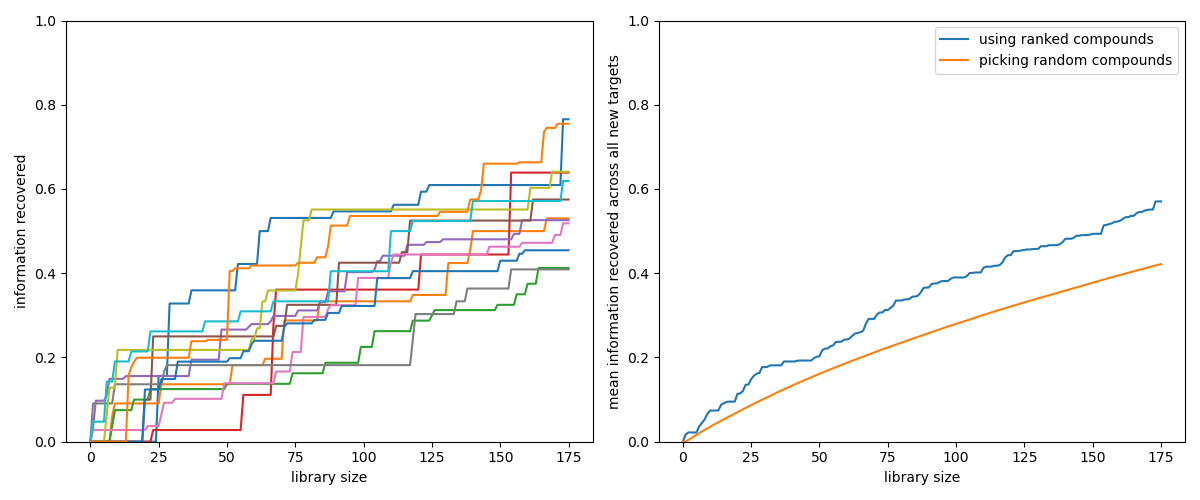
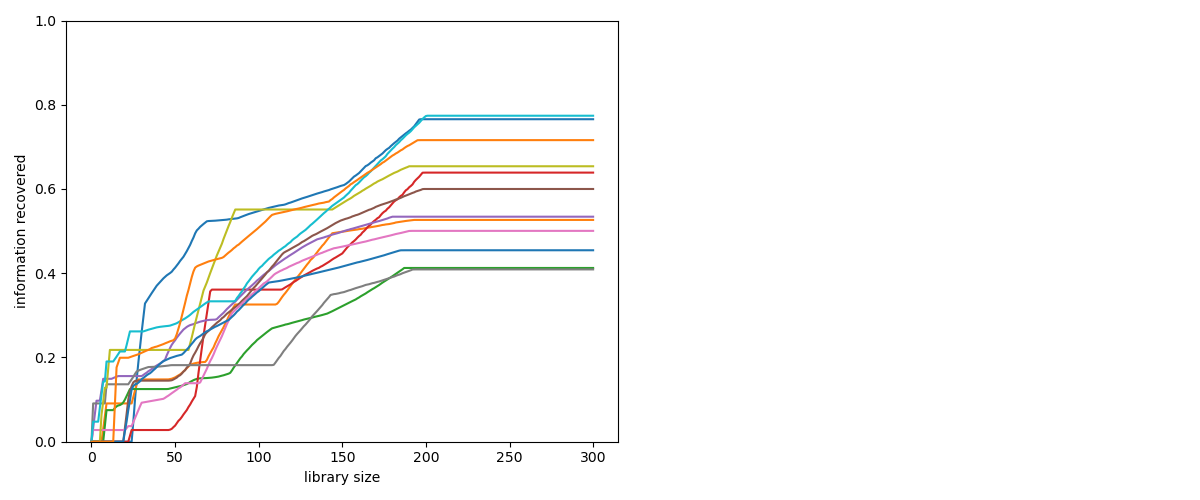
plotting bar graph

diff --git a/scripts/test_rankings.py b/scripts/test_rankings.py
@@ -8,6 +8,8 @@ from rdkit.Chem import AllChem
 from rdkit.Chem import DataStructs, SaltRemover
 from structurally_diverse_library import MACCS_diverse
 
+import numpy as np
+
 
 def get_reduced_smiles_bits(smiles_bits, test_target):
     
@@ -102,7 +104,7 @@ def plot_target_fraction(target, fraction):
     plt.ylabel('information recovered')
     plt.ylim(0,1)
     plt.tight_layout()
-    plt.savefig('figures/fraction_test.png')
+    # plt.savefig('figures/fraction_test_300.png')
 
 
 def target_improvement(target_fraction, random_fractions_target):
@@ -134,9 +136,8 @@ def mean_across_targets(fraction):
 
 smiles_bits = json.load(open('data/datafiles/smiles_bits_clean.json', 'r')) # load in dictionary of targets with IFP bits attributed to each compound
 frequent_comps = json.load(open('data/datafiles/frequently_tested_compounds.json', 'r')) # load in list of compounds that have been tested on more than 15 of our targets
-# target_tests = json.load(open('data/datafiles/target_test_numbers.json', 'r')) # load in dictionary showing how many compounds were tested on which targets
-lib_size = 175 # library size we are using to compare ranked and random libraries
-runs = 1000
+lib_size = 110 # library size we are using to compare ranked and random libraries
+runs = 10
 target_screens = json.load(open('data/datafiles/target_full_screens.json', 'r')) # load in dictionary showing which compounds were tested on which targets
 
 DSiP_smiles = get_DSiP_smiles()
@@ -145,31 +146,45 @@ print(len(set(frequent_comps)))
 plt.figure(figsize=(12, 5))
 plt.subplot(121)
 
-fractions = []
+
+ranked_fractions = []
 random_fractions = []
-diverse_fractions = []
+diverse_fractions_cross = []
+# diverse_fractions = []
 
 comps_lists = []
 improvement = []
 improvement_diverse = []
+
+bars = []
 
 for test_target in smiles_bits:
 
     # get all results except target being tested
     smiles_bits_reduced = get_reduced_smiles_bits(smiles_bits, test_target)
     all_smiles = [i for i in get_all_smiles(smiles_bits_reduced) if Chem.MolToSmiles(Chem.MolFromSmiles(i)) in frequent_comps]
-    # print('previously bound compounds', len(all_smiles))
-
-    # rank compounds based on past results
-    comps, x = rank(smiles_bits_reduced, all_smiles, lib_size)
-    comps_lists += comps
 
     # calculate total information from test target from full library
     total_information = get_total_information(smiles_bits, test_target)
 
-    # get list of fraction of information recovered at each library size (ranked library)
-    target_fraction = get_fraction(comps, smiles_bits, test_target, total_information)
-    fractions.append(target_fraction)
+    fractions = []
+    for i in range(runs):
+        random.shuffle(all_smiles)
+        # rank compounds based on past results
+        comps, x = rank(smiles_bits_reduced, all_smiles, lib_size)
+        comps_lists += comps
+
+        # get list of fraction of information recovered at each library size (ranked library)
+        target_fraction = get_fraction(comps, smiles_bits, test_target, total_information)
+        fractions.append(target_fraction)
+    
+    target_fractions = []
+    for i in range(lib_size+1):
+        fracs = [f[i] for f in fractions]
+        target_fractions.append(sum(fracs)/runs)
+
+    fractions.append(target_fractions)   
+
 
     # get compounds that were actually tested on this target
     all_smiles = [i for i in target_screens[test_target] if i in frequent_comps]
@@ -183,7 +198,7 @@ for test_target in smiles_bits:
     improvement.append(target_improvement(target_fraction, random_fractions_target))
 
     # plot information recovery as library size increases 
-    plot_target_fraction(test_target, target_fraction)
+    plot_target_fraction(test_target, target_fractions)
 
     ## !!! lots of runs for structurally diverse library!!!!
     many_diverse_fractions = []
@@ -197,45 +212,69 @@ for test_target in smiles_bits:
         diverse_fractions.append(sum(fracs)/runs)
 
 
-    print(test_target, len([i for i in smiles_bits[test_target] if Chem.MolToSmiles(Chem.MolFromSmiles(i)) in frequent_comps]), target_fraction[-1], random_fractions_target[-1], diverse_fractions[-1])
-    improvement_diverse.append(target_improvement(target_fraction, diverse_fractions))
+    print(test_target, len([i for i in smiles_bits[test_target] if Chem.MolToSmiles(Chem.MolFromSmiles(i)) in frequent_comps]), target_fractions[-1], random_fractions_target[-1], diverse_fractions[-1])
+    improvement_diverse.append(target_improvement(target_fractions, diverse_fractions))
+    diverse_fractions_cross.append(diverse_fractions)
+    bars.append([target_fractions[-1], random_fractions_target[-1], diverse_fractions[-1]])
 
 
 mean_fractions = mean_across_targets(fractions)
 mean_random_fractions = mean_across_targets(random_fractions)
+mean_diverse_fractions = mean_across_targets(diverse_fractions_cross)
 
 
 plt.subplot(122)
 plt.plot(range(len(mean_fractions)), mean_fractions, label='using ranked compounds')
 plt.plot(range(len(mean_random_fractions)), mean_random_fractions, label='picking random compounds')
+plt.plot(range(len(mean_diverse_fractions)), mean_diverse_fractions, label='picking diverse compounds')
 plt.ylim(0, 1)
 plt.legend()
 plt.xlabel('library size')
 plt.ylabel('mean information recovered across all new targets')
 plt.tight_layout()
-plt.savefig('figures/fraction_test.png')
+# plt.savefig('figures/fraction_test_300.png')
 
 
-all_smiles = get_all_smiles(smiles_bits)
-counts = [comps_lists.count(i) for i in all_smiles]
-plt.close()
-plt.figure(figsize=(8, 5))
-plt.bar(list(set(counts)), [counts.count(i) for i in set(counts)])
-plt.xlabel(f'number of times fragments in top {lib_size}')
-plt.tight_layout()
-plt.savefig('figures/compound_counts.png')
+# all_smiles = get_all_smiles(smiles_bits)
+# counts = [comps_lists.count(i) for i in all_smiles]
+# plt.close()
+# plt.figure(figsize=(8, 5))
+# plt.bar(list(set(counts)), [counts.count(i) for i in set(counts)])
+# plt.xlabel(f'number of times fragments in top {lib_size}')
+# plt.tight_layout()
+# plt.savefig('figures/compound_counts.png')
 
-import numpy as np
 plt.close()
 plt.figure(figsize=(10, 8))
 fig, ax = plt.subplots()
 pos = np.arange(len(smiles_bits))
-ax.barh(pos+0.15, improvement, height=0.25, label='vs 1000 random runs')
-ax.barh(pos-0.15, improvement_diverse, height=0.25, label='vs 1000 MACCS-diverse libraries')
+ax.barh(pos+0.15, improvement, height=0.25, label='vs random runs')
+ax.barh(pos-0.15, improvement_diverse, height=0.25, label='vs MACCS-diverse libraries')
 ax.set_yticks(pos)
 ax.set_yticklabels([t for t in smiles_bits])
-plt.xlabel(f'factor of information improvement in DSiP-diverse {lib_size}')
+plt.xlabel(f'mean factor of information improvement in DSiP-diverse {lib_size} across 1000 runs')
 plt.ylabel('target')
 plt.legend()
 plt.tight_layout()
-plt.savefig('figures/improvement_by_target.png')
+# plt.savefig('figures/improvement_by_target_300.png')
+
+bar_rank = [i[0] for i in bars]
+bar_random = [i[1] for i in bars]
+bar_diverse = [i[2] for i in bars]
+
+plt.close()
+plt.figure(figsize=(10, 8))
+fig, ax = plt.subplots()
+pos = np.arange(len(smiles_bits))
+ax.bar(pos-0.25, bar_rank, width=0.25, label='top-ranked compounds')
+ax.bar(pos, bar_random, width=0.25,label='random compounds')
+ax.bar(pos+0.25, bar_diverse, width=0.25,label='diverse compounds')
+ax.set_xticks(pos)
+ax.set_xticklabels([t for t in smiles_bits])
+plt.xticks(rotation=90)
+plt.ylabel(f'information recovered with library sizes of {lib_size}')
+plt.xlabel('target')
+plt.legend()
+plt.tight_layout()
+plt.savefig('figures/results_bar.png')
+

diff --git a/scripts/generate_IFPs.py b/scripts/generate_IFPs.py
@@ -78,6 +78,9 @@ def get_IFP_vectors(target):
                     ismiles.append(Chem.MolToSmiles(Chem.MolFromSmiles(xtal_smiles[ligand][0])))
                     ifrags.append(ligand)
                     ivecs.append(IFP)
+                    print(ligand, [i for i in range(len(IFP)) if IFP[i] > 0])
+                else:
+                    print(ligand, 'no interactions detected')
 
         
         except:
@@ -143,7 +146,7 @@ xtal_smiles = json.load(open('data/datafiles/xtal_smiles.json', 'r'))
 
 
 # for target in os.listdir(DATA_DIR):
-for target in ['PKL1']:
+for target in ['PGN_RS02895PGA']:
 
     try:
         print(target)
@@ -158,7 +161,8 @@ for target in ['PKL1']:
 
         print('structures:', len(vecs), ', unique smiles:', len(smiles_bits))
         target_data[target] = smiles_bits
-        json.dump(target_data, open('data/datafiles/smiles_bits.json', 'w'))
+        # json.dump(target_data, open('data/datafiles/smiles_bits.json', 'w'))
+        print(smiles_bits)
     
     except:
         print(target, 'error')
